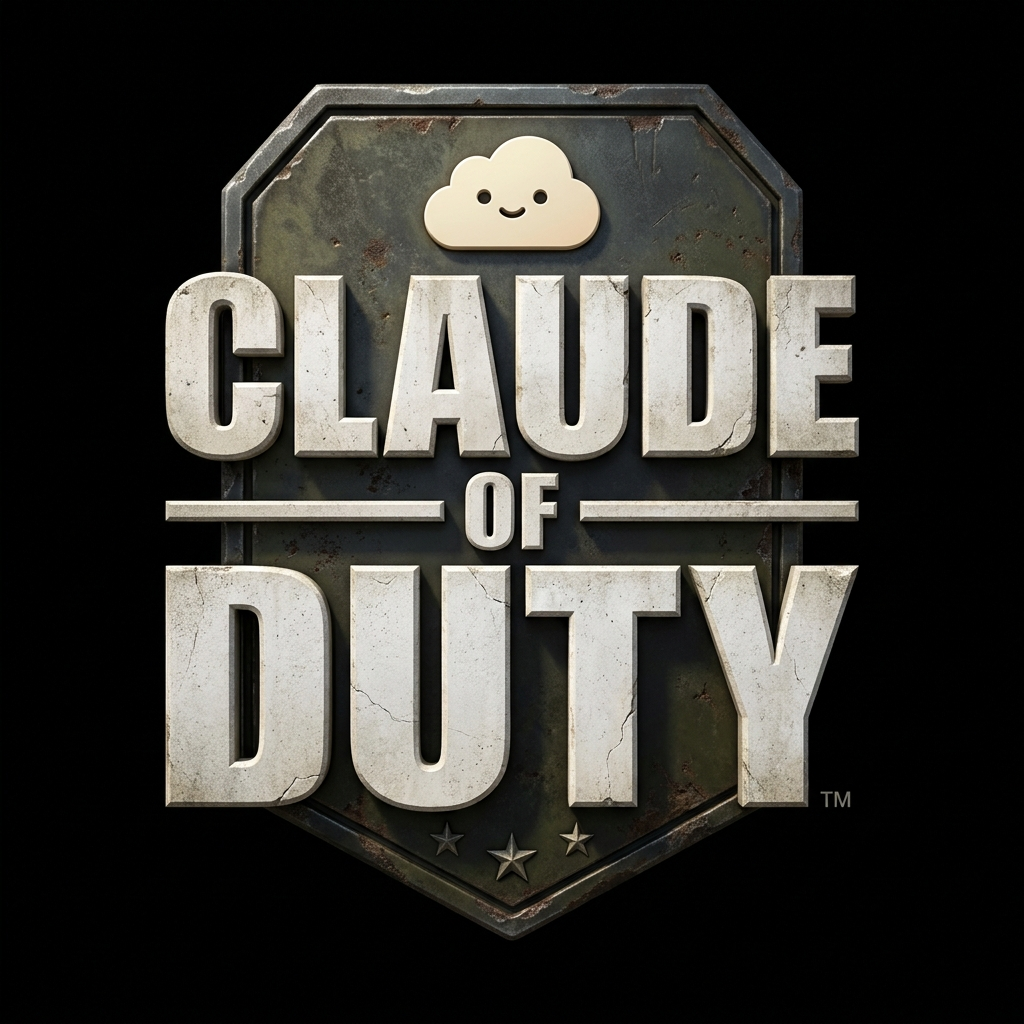
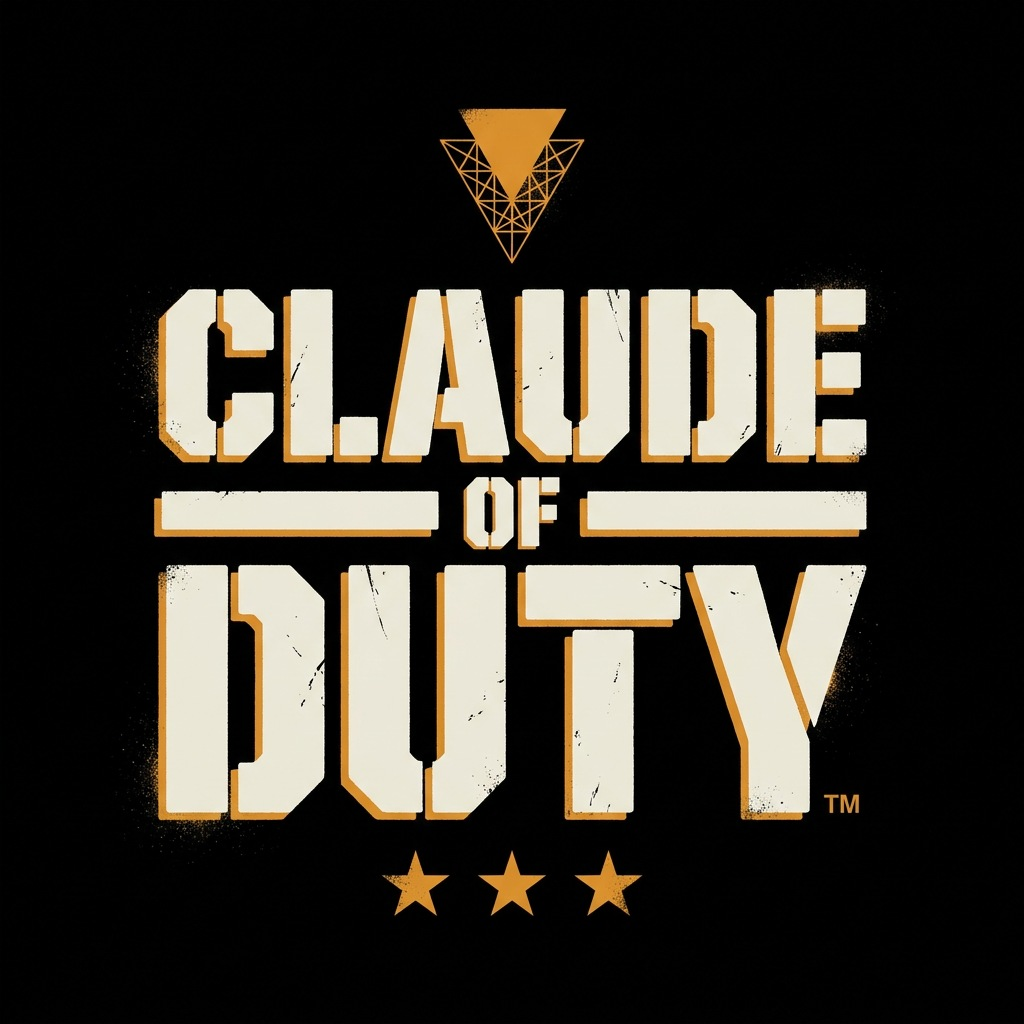
feat: drop the cloud, adopt the mesh delta
The cloud came in through a reference image and was carried into every
prompt unexamined. It is not this project's mark, and it borrowed an
identity that is not ours to borrow — a project already sitting this
close to an existing name should not also wear someone else's emblem.

The replacement is a delta whose lower half dissolves into a triangular
mesh. It is insignia geometry and, at the same time, a literal
description: this game ships no art assets and builds every surface out
of generated geometry at load time.

Direction changed with it. The concrete-and-shield lockup was a material
effect; this one is a flat two-colour stencil, bone printed slightly out
of register over amber, with overspray and chips. It reads as something
sprayed onto a crate rather than rendered, it costs less than half the
bytes (58 kB against 120 kB — flat graphics compress), and the squarer
crop gave back enough fold budget to grow the mark from 292 to 330 px.

The small mark is the amber placard with the same delta knocked out of
it. Type at 16 px is mud, so the favicon carries the emblem and not the
wordmark, and it degrades in the right order: the lattice and the
keyline go first, and what survives is still this mark rather than a
generic triangle. icon-512.png is now rasterised from that SVG by the
same tool instead of from its own generated source, so the home-screen
tile and the favicon cannot drift apart.

Claude-Session: https://claude.ai/code/session_01Xd1dmxEvdJLzU3jHvENsm3

diff --git a/play/index.html b/play/index.html
@@ -134,7 +134,7 @@
     <div id="boot" role="status" aria-live="polite">
       <div>
         <img class="boot-mark" src="/img/logo-wide.webp" alt="CLAUDE OF DUTY"
-             width="1206" height="489" fetchpriority="high" />
+             width="1280" height="603" fetchpriority="high" />
         <div class="boot-sub">BUILDING THE WORLD</div>
       </div>
       <div class="boot-track"><div class="boot-fill" id="boot-fill"></div></div>

diff --git a/index.html b/index.html
@@ -106,8 +106,8 @@
             <img
               src="/img/logo-lockup.webp"
               alt="CLAUDE OF DUTY"
-              width="724"
-              height="887"
+              width="794"
+              height="838"
               fetchpriority="high"
             />
           </h1>

diff --git a/src/landing/landing.css b/src/landing/landing.css
@@ -302,7 +302,7 @@ code {
   line-height: 1;
 }
 .hero-mark img {
-  width: clamp(186px, 23vw, 292px);
+  width: clamp(186px, 23vw, 330px);
   height: auto;
   margin-inline: auto;
   filter: drop-shadow(0 16px 34px rgba(0, 0, 0, 0.5));

diff --git a/assets/brand/README.md b/assets/brand/README.md
@@ -7,24 +7,36 @@ The generator output the shipped marks are derived from. Nothing here is served 
 | --- | --- | --- |
 | `lockup-square.jpg` | | `public/img/logo-lockup.webp` — hero |
 | `lockup-wide.jpg` | | `public/img/logo-wide.webp` — boot screen, OG card |
-| `badge.jpg` | | `public/icon-512.png` — apple-touch icon |
 
-`public/logo.svg` is not derived from any of these. It is drawn by hand to the
-same brand — shield, cloud, three stars — because a downscale of the raster is
-mush below roughly 48 px and the favicon has to hold at 16.
+`public/logo.svg` is not derived from either. It is drawn by hand — the amber
+placard with the delta knocked out of it — because a downscale of the raster is
+mush below roughly 48 px and the favicon has to hold at 16. `public/icon-512.png`
+is rasterised from that same SVG by the same tool, so the home-screen tile and the
+favicon cannot drift apart.
 
-They are committed rather than re-fetched so a clean checkout can rebuild the
-marks. Generated with Lynk Studio, tier `ultra` (`google/gemini-3-pro-image`),
-2026-08-09, from prompts asking for a stacked `CLAUDE / OF / DUTY` wordmark in
-heavy condensed military block letterforms cut from weathered concrete, over a
-chipped olive-drab hexagonal shield carrying the cloud emblem and three stars.
+The sources are committed rather than re-fetched so a clean checkout can rebuild
+the marks. Generated with Lynk Studio, tier `ultra` (`google/gemini-3-pro-image`),
+2026-08-09: a flat two-colour stencil wordmark, bone over amber and slightly out
+of register, with the unit emblem — a delta whose lower half dissolves into a
+triangular mesh.
 
-Two things worth knowing before regenerating:
+The emblem is not decoration. This game ships no art assets and builds every
+surface out of generated geometry at load time, so a mark made of mesh triangles
+is both insignia and an accurate description.
+
+Three things worth knowing before regenerating:
 
 - **Check the spelling at full size.** A model asked for lettering returns
   lettering that drifts — a dropped stroke, a near-miss letterform, kerning that
-  collapses two characters into one. Every candidate here was read letter by
-  letter before it was kept, and one of the three generated in the same batch
-  was discarded for a different reason (a cloud with no face, off-brand).
-- **The marks arrive on opaque black.** They have to be keyed before use, and
-  the key cannot be a luminance threshold — see the note in `tools/make-logo.mjs`.
+  collapses two characters into one. Every candidate kept here was read letter by
+  letter before it was used.
+- **State the negatives, or the model invents context.** Asked for a logo on
+  black, it has returned the mark on white, and once returned a screenshot of a
+  drawing app with a toolbar and a layers panel. The prompts here name the
+  background rule and the absent elements explicitly for that reason.
+- **The marks arrive on opaque black.** They have to be keyed before use, and the
+  key cannot be a luminance threshold — see the note in `tools/make-logo.mjs`.
+
+An earlier round put a smiling cloud on a shield here. It came in through a
+reference image and was carried forward unexamined; it is not this project's mark
+and it leaned on an identity that is not ours to use. Do not reintroduce it.
